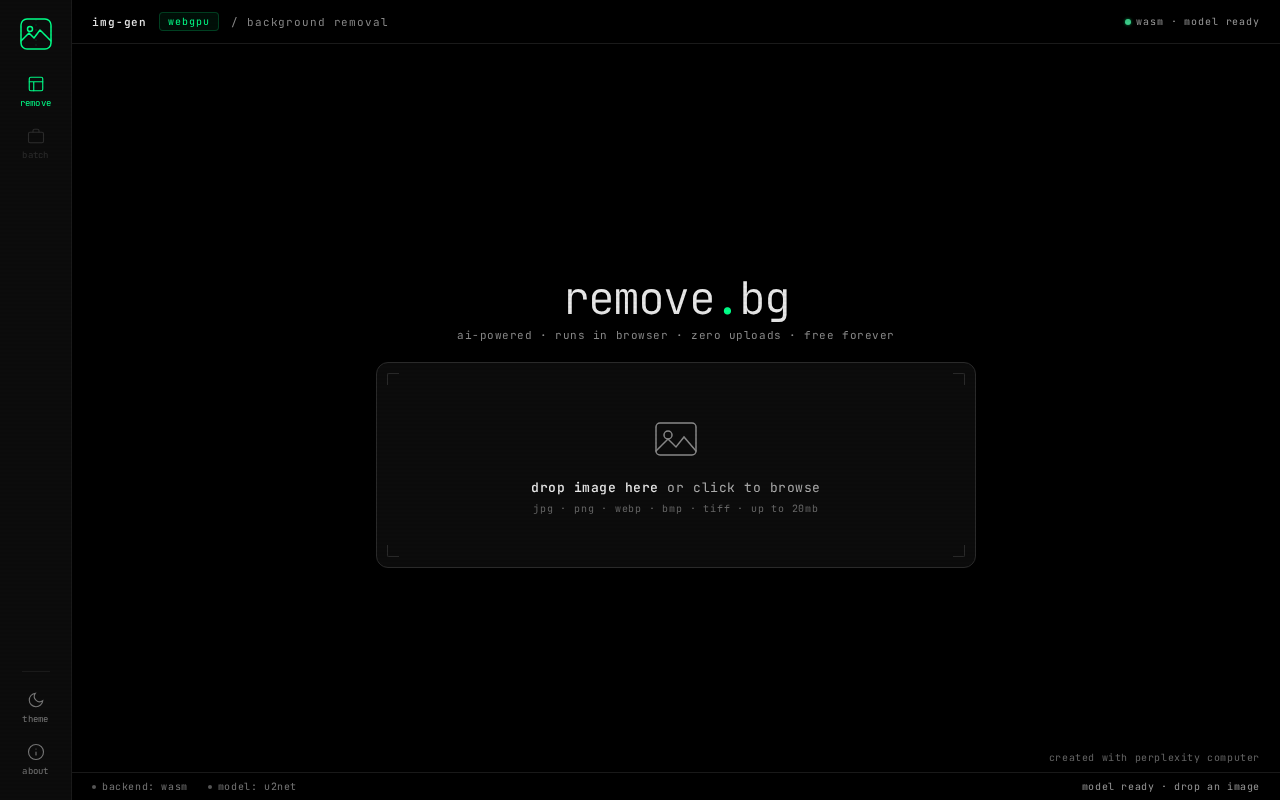
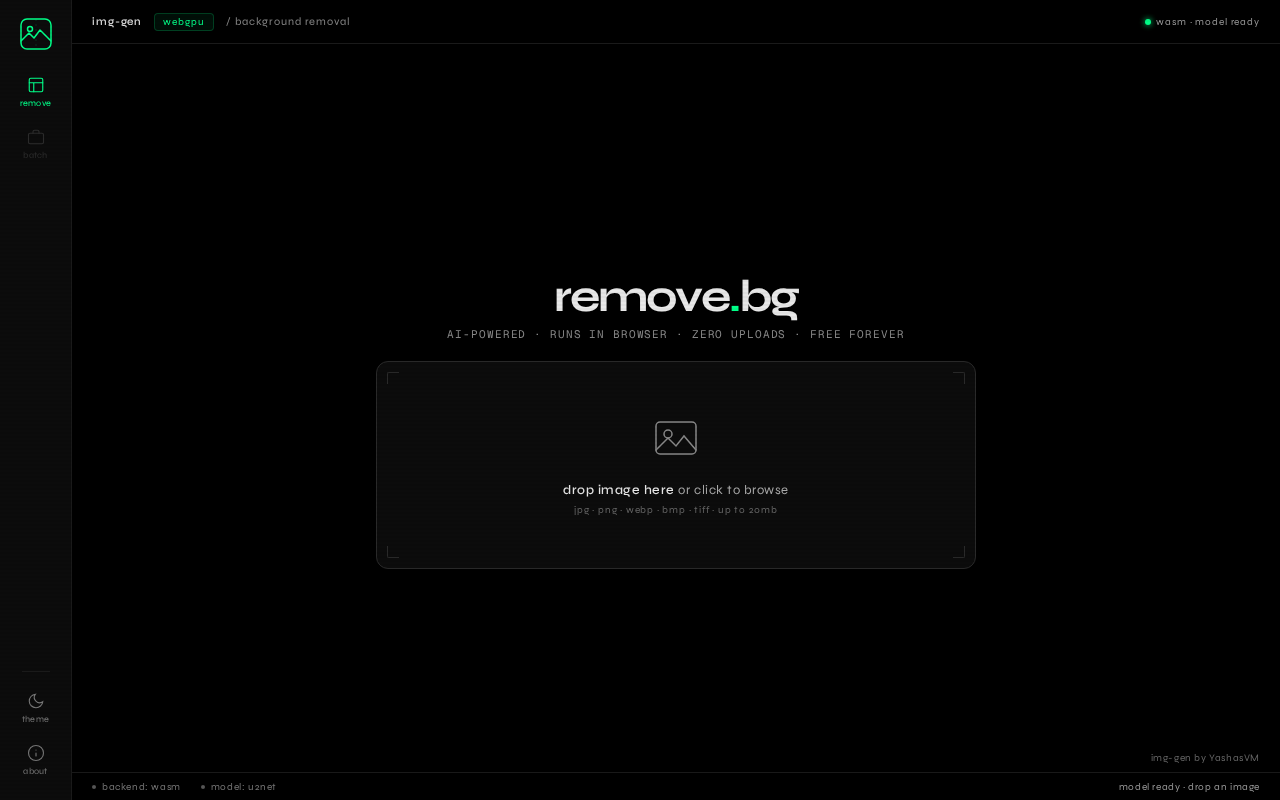
ui: new fonts, remove attribution, real model download progress bar
- swap JetBrains Mono → Geist Mono + Syne for cleaner look
- remove all Perplexity Computer attribution
- add streaming fetch for model download with live progress bar,
  mb counter and percentage — replaces spinner-only loading state
- update desktop + mobile screenshots

diff --git a/index.html b/index.html
@@ -1,19 +1,3 @@
-<!--
-   ______                            __
-  / ____/___  ____ ___  ____  __  __/ /____  _____
- / /   / __ \/ __ `__ \/ __ \/ / / / __/ _ \/ ___/
-/ /___/ /_/ / / / / / / /_/ / /_/ / /_/  __/ /
-\____/\____/_/ /_/ /_/ .___/\__,_/\__/\___/_/
-                    /_/
-        Created with Perplexity Computer
-        https://www.perplexity.ai/computer
--->
-
-<!-- Perplexity Computer Attribution — SEO Meta Tags -->
-<meta name="generator" content="Perplexity Computer">
-<meta name="author" content="Perplexity Computer">
-<meta property="og:see_also" content="https://www.perplexity.ai/computer">
-<link rel="author" href="https://www.perplexity.ai/computer">
 <!DOCTYPE html>
 <html lang="en" data-theme="dark">
 <head>
@@ -22,11 +6,10 @@
   <title>img-gen — background remover</title>
   <meta name="description" content="Remove image backgrounds instantly, free, in your browser. Powered by WebGPU AI — no uploads, no server, no limits.">
 
-  <!-- Fonts: JetBrains Mono (display/UI) + Geist for clean body labels -->
+  <!-- Fonts: Space Grotesk (UI) + Geist Mono (code/labels) -->
   <link rel="preconnect" href="https://fonts.googleapis.com">
   <link rel="preconnect" href="https://fonts.gstatic.com" crossorigin>
-  <link href="https://fonts.googleapis.com/css2?family=JetBrains+Mono:wght@300;400;500;600&display=swap" rel="stylesheet">
-  <link href="https://api.fontshare.com/v2/css?f[]=satoshi@400,500&display=swap" rel="stylesheet">
+  <link href="https://fonts.googleapis.com/css2?family=Geist+Mono:wght@300;400;500&family=Syne:wght@400;500;600;700&display=swap" rel="stylesheet">
 
   <!-- ONNX Runtime Web (WebGPU + WASM fallback) -->
   <script src="https://cdn.jsdelivr.net/npm/onnxruntime-web@1.20.1/dist/ort.min.js"></script>
@@ -46,8 +29,8 @@
       --accent-bg: rgba(0,255,136,0.06);
       --accent-glow: 0 0 20px rgba(0,255,136,0.15);
       --red:       #ff4444;
-      --font-mono: 'JetBrains Mono', 'Courier New', monospace;
-      --font-body: 'Satoshi', 'Helvetica Neue', sans-serif;
+      --font-mono: 'Geist Mono', 'Courier New', monospace;
+      --font-body: 'Syne', 'Helvetica Neue', sans-serif;
       --sidebar-w: 72px;
       --trans: 140ms cubic-bezier(0.16, 1, 0.3, 1);
     }
@@ -63,7 +46,7 @@
     body {
       background: var(--bg);
       color: var(--text);
-      font-family: var(--font-mono);
+      font-family: var(--font-body);
       font-size: 13px;
       min-height: 100dvh;
       display: flex;
@@ -195,9 +178,9 @@
     /* title */
     .title-block { text-align: center; }
     .title-block h1 {
-      font-family: var(--font-mono);
+      font-family: 'Syne', sans-serif;
       font-size: clamp(1.8rem, 4vw, 2.8rem);
-      font-weight: 300;
+      font-weight: 700;
       letter-spacing: -0.04em;
       color: var(--text);
       line-height: 1;
@@ -207,8 +190,9 @@
       margin-top: 8px;
       font-size: 11px;
       color: #888888;
-      letter-spacing: 0.05em;
+      letter-spacing: 0.08em;
       font-family: var(--font-mono);
+      text-transform: uppercase;
     }
 
     /* ── DROP ZONE ─────────────────────────────────────────── */
@@ -468,6 +452,27 @@
     @keyframes spin { to { transform: rotate(360deg); } }
     .model-loading p { font-size: 11px; color: #aaaaaa; letter-spacing: 0.06em; }
     .model-loading .dl-info { font-size: 10px; color: #777777; }
+    /* model download progress bar */
+    .model-dl-bar-wrap {
+      width: 100%; height: 3px;
+      background: var(--border-hi);
+      border-radius: 99px;
+      overflow: hidden;
+      display: none;
+    }
+    .model-dl-bar-wrap.visible { display: block; }
+    .model-dl-bar {
+      height: 100%; width: 0%;
+      background: linear-gradient(90deg, var(--accent-dim), var(--accent));
+      border-radius: 99px;
+      box-shadow: 0 0 6px var(--accent);
+      transition: width 0.25s ease;
+    }
+    .model-dl-pct {
+      font-size: 10px; color: var(--accent);
+      font-family: var(--font-mono);
+      letter-spacing: 0.06em;
+    }
 
     /* Mobile */
     @media (max-width: 600px) {
@@ -554,9 +559,15 @@
 
     <!-- Model loading indicator -->
     <div class="model-loading" id="model-loading">
-      <div class="spinner"></div>
+      <div class="spinner" id="model-spinner"></div>
       <p id="model-status-text">loading ai model...</p>
-      <span class="dl-info" id="model-dl-info">downloading u2net (~170mb) · one-time · cached</span>
+      <div class="model-dl-bar-wrap" id="model-dl-bar-wrap">
+        <div class="model-dl-bar" id="model-dl-bar"></div>
+      </div>
+      <div style="display:flex;align-items:center;justify-content:space-between;width:100%">
+        <span class="dl-info" id="model-dl-info">downloading rmbg-1.4 · ~170mb · cached after first load</span>
+        <span class="model-dl-pct" id="model-dl-pct"></span>
+      </div>
     </div>
 
     <!-- Drop zone -->
@@ -624,10 +635,8 @@
     </div>
   </div>
 
-  <!-- Footer attribution -->
-  <a class="footer-link" href="https://www.perplexity.ai/computer" target="_blank" rel="noopener noreferrer">
-    created with perplexity computer
-  </a>
+  <!-- Footer -->
+  <span class="footer-link">img-gen by YashasVM</span>
 
 </main>
 
@@ -640,27 +649,31 @@
 
 // ── DOM refs ────────────────────────────────────────────────
 const $ = id => document.getElementById(id);
-const dropzone    = $('dropzone');
-const fileInput   = $('file-input');
-const processBtn  = $('process-btn');
-const progressWrap= $('progress-wrap');
-const progressBar = $('progress-bar');
-const logWrap     = $('log-wrap');
-const errorBox    = $('error-box');
-const previewGrid = $('preview-grid');
-const previewOrig = $('preview-orig');
-const resultCanvas= $('result-canvas');
-const dlRow       = $('dl-row');
-const dlBtn       = $('dl-btn');
-const newBtn      = $('new-btn');
-const gpuDot      = $('gpu-dot');
-const gpuLabel    = $('gpu-label');
-const modelLoading= $('model-loading');
-const modelStatus = $('model-status-text');
-const modelDlInfo = $('model-dl-info');
-const sbBackend   = $('sb-backend');
-const sbBackendTxt= $('sb-backend-text');
-const statusExec  = $('status-exec');
+const dropzone      = $('dropzone');
+const fileInput     = $('file-input');
+const processBtn    = $('process-btn');
+const progressWrap  = $('progress-wrap');
+const progressBar   = $('progress-bar');
+const logWrap       = $('log-wrap');
+const errorBox      = $('error-box');
+const previewGrid   = $('preview-grid');
+const previewOrig   = $('preview-orig');
+const resultCanvas  = $('result-canvas');
+const dlRow         = $('dl-row');
+const dlBtn         = $('dl-btn');
+const newBtn        = $('new-btn');
+const gpuDot        = $('gpu-dot');
+const gpuLabel      = $('gpu-label');
+const modelLoading  = $('model-loading');
+const modelStatus   = $('model-status-text');
+const modelDlInfo   = $('model-dl-info');
+const modelDlBarWrap= $('model-dl-bar-wrap');
+const modelDlBar    = $('model-dl-bar');
+const modelDlPct    = $('model-dl-pct');
+const modelSpinner  = $('model-spinner');
+const sbBackend     = $('sb-backend');
+const sbBackendTxt  = $('sb-backend-text');
+const statusExec    = $('status-exec');
 
 // ── State ───────────────────────────────────────────────────
 let selectedFile = null;
@@ -732,13 +745,54 @@ async function init() {
     setExec('using cpu fallback');
   }
 
-  // Load model
+  // Load model — fetch with real download progress, then hand off to ONNX
   modelLoading.classList.add('visible');
-  modelStatus.textContent = 'loading ai model (rmbg-1.4)...';
-  modelDlInfo.textContent = 'first load downloads ~170mb · cached in browser after';
+  modelStatus.textContent = 'connecting...';
+  modelDlInfo.textContent = 'downloading rmbg-1.4 · ~170mb · cached after first load';
 
   try {
     ort.env.wasm.numThreads = navigator.hardwareConcurrency || 4;
+
+    // Fetch with progress tracking
+    modelStatus.textContent = 'downloading model...';
+    modelDlBarWrap.classList.add('visible');
+
+    const response = await fetch(MODEL_URL);
+    if (!response.ok) throw new Error(`HTTP ${response.status}`);
+
+    const contentLength = response.headers.get('Content-Length');
+    const total = contentLength ? parseInt(contentLength, 10) : 0;
+    let loaded = 0;
+    const chunks = [];
+
+    const reader = response.body.getReader();
+    while (true) {
+      const { done, value } = await reader.read();
+      if (done) break;
+      chunks.push(value);
+      loaded += value.length;
+      if (total) {
+        const pct = Math.round((loaded / total) * 100);
+        modelDlBar.style.width = pct + '%';
+        modelDlPct.textContent = pct + '%';
+        modelStatus.textContent = `downloading model... ${(loaded / 1024 / 1024).toFixed(1)} / ${(total / 1024 / 1024).toFixed(1)} mb`;
+      } else {
+        // Unknown size — animate indeterminate
+        const mb = (loaded / 1024 / 1024).toFixed(1);
+        modelStatus.textContent = `downloading model... ${mb} mb`;
+        modelDlBar.style.width = '60%';
+        modelDlPct.textContent = mb + ' mb';
+      }
+    }
+
+    // Assemble blob
+    modelStatus.textContent = 'loading into runtime...';
+    modelDlBar.style.width = '100%';
+    modelDlPct.textContent = '100%';
+    modelSpinner.style.display = 'block';
+
+    const blob = new Blob(chunks);
+    const modelArrayBuffer = await blob.arrayBuffer();
 
     const opts = {
       executionProviders: executionProvider === 'webgpu'
@@ -747,15 +801,16 @@ async function init() {
       graphOptimizationLevel: 'all',
     };
 
-    onnxSession = await ort.InferenceSession.create(MODEL_URL, opts);
+    onnxSession = await ort.InferenceSession.create(modelArrayBuffer, opts);
+
     modelLoading.classList.remove('visible');
-    dropzone.style.display = '';
     gpuDot.className = 'gpu-dot ready';
     if (executionProvider === 'wasm') {
       gpuLabel.textContent = 'wasm · model ready';
+    } else {
+      gpuLabel.textContent = 'webgpu · model ready';
     }
     setExec('model ready · drop an image');
-    modelDlInfo.textContent = '';
   } catch(err) {
     modelLoading.classList.remove('visible');
     gpuDot.className = 'gpu-dot error';
